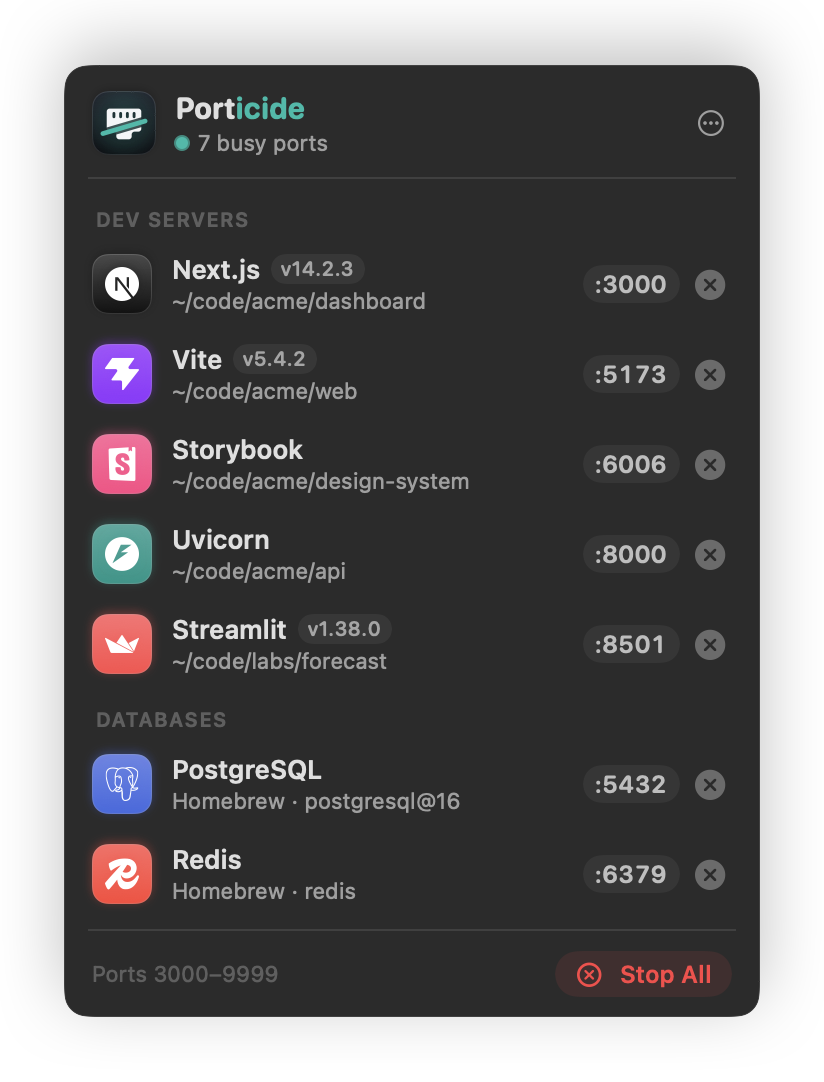
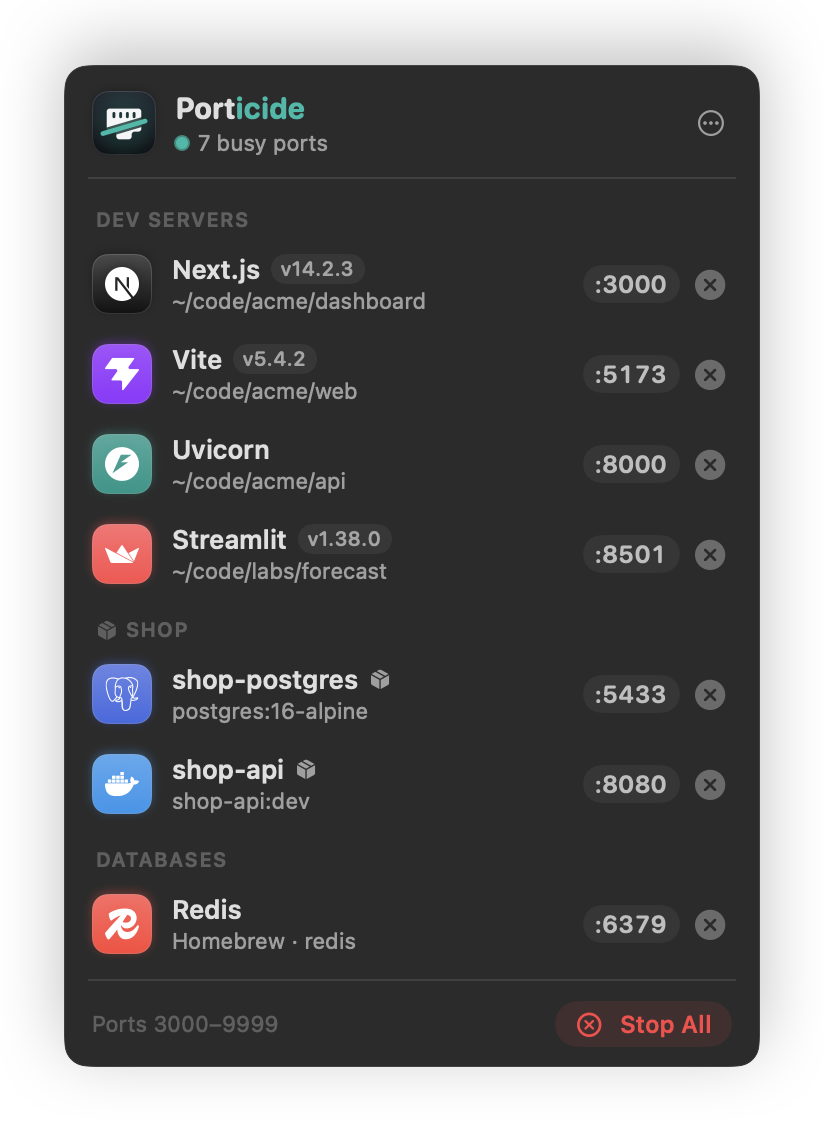
docs: cover containers, the menu bar menu and haptics
Explain how container ports are attributed and stopped, add the
right-click menu to the usage table and regenerate the README images
with a Compose project in the demo data.

diff --git a/README.md b/README.md
@@ -34,12 +34,13 @@ Porticide lives in the menu bar, shows every dev server that's listening, tells 
 
 ## Features
 
-- **Knows your stack.** Recognises 38 dev servers, databases and tools (Vite, Next.js, Django, FastAPI, Rails, PostgreSQL, Redis, Docker, Ollama and more) and shows each one's logo, version and project folder.
+- **Knows your stack.** Recognises 38 dev servers, databases and tools (Vite, Next.js, Django, FastAPI, Rails, PostgreSQL, Redis, Ollama and more) and shows each one's logo, version and project folder.
+- **Sees inside Docker.** Ports published by containers on OrbStack, Docker Desktop, Colima or Podman show up under their Compose project, with the container's name and image. Stopping one runs `docker stop` on that container only.
 - **One click to stop, and it stays stopped.** Sends `SIGTERM` (<kbd>⌥</kbd>-click for `SIGKILL`). Services kept alive by launchd, like `brew services` or background gateways, are stopped through `launchctl` so they don't come back 10 seconds later. If something else restarts a server (nodemon, pm2…), Porticide names it and offers to stop it too.
 - **Never in your way.** No dialogs: confirmations (off by default) and errors appear inline, so the popover stays open. If a process belongs to another user, you get the exact `sudo kill` command to copy.
 - **Only what matters.** macOS services (AirPlay Receiver on 5000/7000, Control Center…), app helpers and shared Bonjour sockets are hidden by default. Servers are grouped into *Dev Servers*, *Databases* and *Services*.
 - **Handy shortcuts.** Open `localhost:<port>` in the browser, reveal the project in Finder, open it in Terminal, copy the URL or PID.
-- **Quietly native.** SwiftUI and AppKit, no dependencies. Shows the busy-port count in the menu bar, can open at login and can notify you when a process stops.
+- **Feels native.** SwiftUI and AppKit, no dependencies. A right-click menu on the menu bar icon, the busy-port count next to it, trackpad haptics in time with the stop animation, open at login and optional notifications.
 - **Light on resources.** One `lsof` call per scan; everything else is read straight from the kernel with `libproc` and `sysctl`, and cached per process.
 
 <p align="center">
@@ -78,6 +79,7 @@ make install    # builds Porticide.app and copies it to /Applications
 | Force quit (`SIGKILL`) | <kbd>⌥</kbd>-click <kbd>⊗</kbd>, or right-click → **Force Quit** |
 | Open in the browser | Hover a row and click the Safari icon |
 | More actions | Right-click a row |
+| Quick menu | Right-click the menu bar icon: every busy port with its actions, Stop All, settings, About |
 | Refresh / Settings / Quit | <kbd>⌘R</kbd> / <kbd>⌘,</kbd> / <kbd>⌘Q</kbd> while the popover is open |
 
 Settings let you change the scanned port range (3000–9999 by default), the refresh interval, whether to ask before stopping, sounds, notifications and whether system processes are shown.
@@ -92,6 +94,7 @@ flowchart LR
     scanner --> classifier[ServiceClassifier]
     scanner --> locator["ProjectLocator<br/>(nearest git root)"]
     launchd["launchctl list"] --> scanner
+    docker["docker ps<br/>(only if a runtime holds a port)"] --> scanner
     scanner --> filter[PortFilter]
     filter --> ui["Menu bar popover<br/>(SwiftUI)"]
 ```
@@ -100,7 +103,8 @@ flowchart LR
 2. **Inspect.** For each new PID, the executable path (`proc_pidpath`), working directory (`proc_pidinfo`) and arguments (`sysctl(KERN_PROCARGS2)`) come straight from the kernel, with no `ps` or extra `lsof` per process. The project is the nearest git root above the working directory, worktrees included.
 3. **Classify.** Rules match the *file names* of the executable and its arguments (`node …/.bin/vite` → Vite), so `bundle exec` is never mistaken for Bun. Unknown processes get a hint from well-known ports (`5173` → *usually Vite*).
 4. **Filter.** Other users' processes, macOS system paths, app helpers and multicast DNS sockets are hidden; Homebrew services such as PostgreSQL stay visible.
-5. **Stop.** Plain processes get a signal. Processes that `launchctl list` attributes to a LaunchAgent are booted out of launchd instead, since `KeepAlive` would restart them.
+5. **Containers.** On macOS a container's published port is held by the runtime (OrbStack, Docker Desktop…), not by the container. When a runtime owns a port, `docker ps` tells which container published it.
+6. **Stop.** Plain processes get a signal. Containers get `docker stop`, since killing the runtime would stop them all. Processes that `launchctl list` attributes to a LaunchAgent are booted out of launchd, since `KeepAlive` would restart them.
 
 ### Project structure
 
